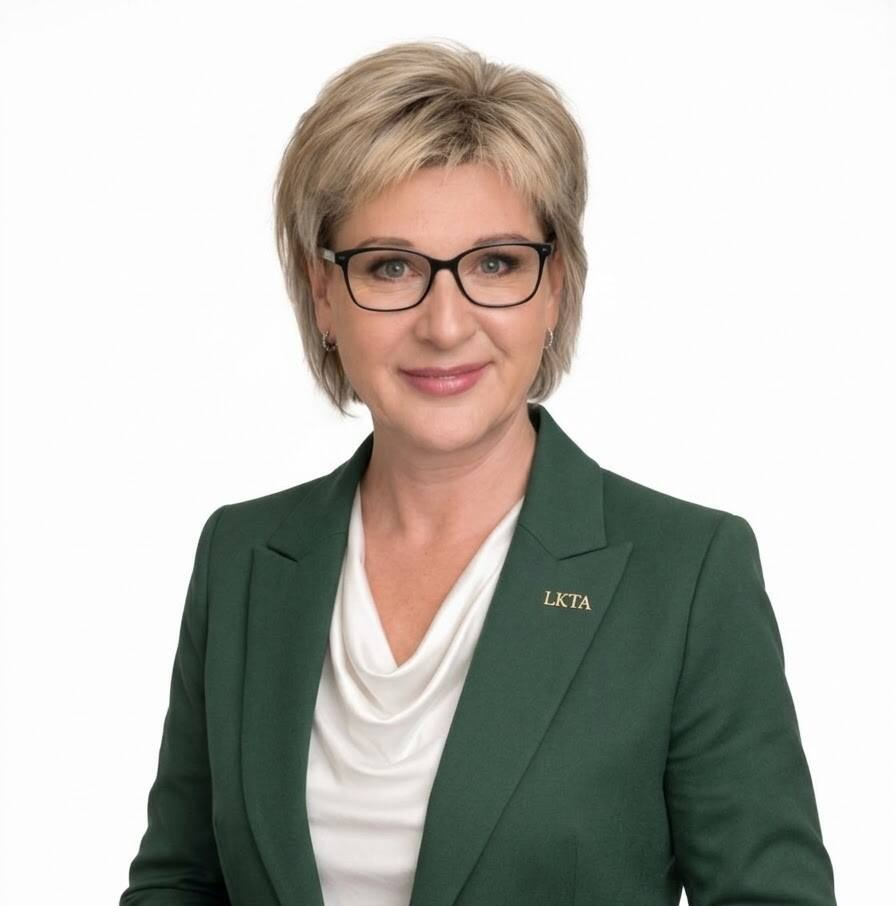
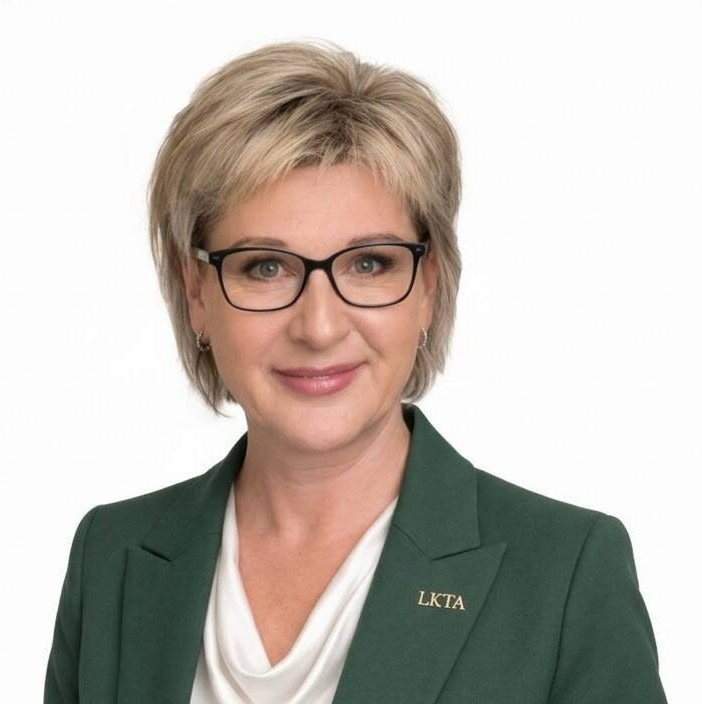
updated team

diff --git a/ru/index.html b/ru/index.html
@@ -883,6 +883,86 @@
             <article class="team-card">
               <figure class="team-card__photo">
                 <img
+                  src="../src/assets/team/zanna.jpeg"
+                  alt="Жанна Буле"
+                  loading="lazy"
+                  decoding="async"
+                />
+              </figure>
+
+              <div class="team-card__body">
+                <div class="team-card__intro">
+                  <h3 class="team-card__name">Жанна Буле</h3>
+                </div>
+
+                <p class="team-card__role">Креативный арт менеджер</p>
+
+                <div class="team-card__meta">
+                  <div class="team-card__meta-item">
+                    <span class="team-card__meta-label">E-mail</span>
+                    <span class="team-card__meta-value">
+                      <a href="mailto:jatamada@inbox.lv">jatamada@inbox.lv</a>
+                    </span>
+                  </div>
+                  <div class="team-card__meta-item">
+                    <span class="team-card__meta-label">WhatsApp</span>
+                    <span class="team-card__meta-value">
+                      <a
+                        href="https://wa.me/37128894777"
+                        target="_blank"
+                        rel="noopener noreferrer"
+                      >
+                        Написать
+                      </a>
+                    </span>
+                  </div>
+                </div>
+              </div>
+            </article>
+
+            <article class="team-card">
+              <figure class="team-card__photo">
+                <img
+                  src="../src/assets/team/karina.jpeg"
+                  alt="Карина Хржченовича"
+                  loading="lazy"
+                  decoding="async"
+                />
+              </figure>
+
+              <div class="team-card__body">
+                <div class="team-card__intro">
+                  <h3 class="team-card__name">Карина Хржченовича</h3>
+                </div>
+
+                <p class="team-card__role">Страхование</p>
+
+                <div class="team-card__meta">
+                  <div class="team-card__meta-item">
+                    <span class="team-card__meta-label">E-mail</span>
+                    <span class="team-card__meta-value">
+                      <a href="mailto:karina@adamas.lv">karina@adamas.lv</a>
+                    </span>
+                  </div>
+                  <div class="team-card__meta-item">
+                    <span class="team-card__meta-label">WhatsApp</span>
+                    <span class="team-card__meta-value">
+                      <a
+                        href="https://wa.me/37129399359"
+                        target="_blank"
+                        rel="noopener noreferrer"
+                      >
+                        Написать
+                      </a>
+                    </span>
+                  </div>
+                </div>
+              </div>
+            </article>
+
+            <article class="team-card">
+              <figure class="team-card__photo">
+                <img
                   src="../src/assets/team/anjela.jpeg"
                   alt="Анджела Кузьмина-Буле"
                   loading="lazy"

diff --git a/index.html b/index.html
@@ -878,6 +878,86 @@
             <article class="team-card">
               <figure class="team-card__photo">
                 <img
+                  src="./src/assets/team/zanna.jpeg"
+                  alt="Žanna Bule"
+                  loading="lazy"
+                  decoding="async"
+                />
+              </figure>
+
+              <div class="team-card__body">
+                <div class="team-card__intro">
+                  <h3 class="team-card__name">Žanna Bule</h3>
+                </div>
+
+                <p class="team-card__role">Radošā mākslas menedžere</p>
+
+                <div class="team-card__meta">
+                  <div class="team-card__meta-item">
+                    <span class="team-card__meta-label">E-pasts</span>
+                    <span class="team-card__meta-value">
+                      <a href="mailto:jatamada@inbox.lv">jatamada@inbox.lv</a>
+                    </span>
+                  </div>
+                  <div class="team-card__meta-item">
+                    <span class="team-card__meta-label">WhatsApp</span>
+                    <span class="team-card__meta-value">
+                      <a
+                        href="https://wa.me/37128894777"
+                        target="_blank"
+                        rel="noopener noreferrer"
+                      >
+                        Rakstīt
+                      </a>
+                    </span>
+                  </div>
+                </div>
+              </div>
+            </article>
+
+            <article class="team-card">
+              <figure class="team-card__photo">
+                <img
+                  src="./src/assets/team/karina.jpeg"
+                  alt="Karīna Hržčenoviča"
+                  loading="lazy"
+                  decoding="async"
+                />
+              </figure>
+
+              <div class="team-card__body">
+                <div class="team-card__intro">
+                  <h3 class="team-card__name">Karīna Hržčenoviča</h3>
+                </div>
+
+                <p class="team-card__role">Apdrošināšana</p>
+
+                <div class="team-card__meta">
+                  <div class="team-card__meta-item">
+                    <span class="team-card__meta-label">E-pasts</span>
+                    <span class="team-card__meta-value">
+                      <a href="mailto:karina@adamas.lv">karina@adamas.lv</a>
+                    </span>
+                  </div>
+                  <div class="team-card__meta-item">
+                    <span class="team-card__meta-label">WhatsApp</span>
+                    <span class="team-card__meta-value">
+                      <a
+                        href="https://wa.me/37129399359"
+                        target="_blank"
+                        rel="noopener noreferrer"
+                      >
+                        Rakstīt
+                      </a>
+                    </span>
+                  </div>
+                </div>
+              </div>
+            </article>
+
+            <article class="team-card">
+              <figure class="team-card__photo">
+                <img
                   src="./src/assets/team/anjela.jpeg"
                   alt="Andžela Kuzmina-Bule"
                   loading="lazy"
